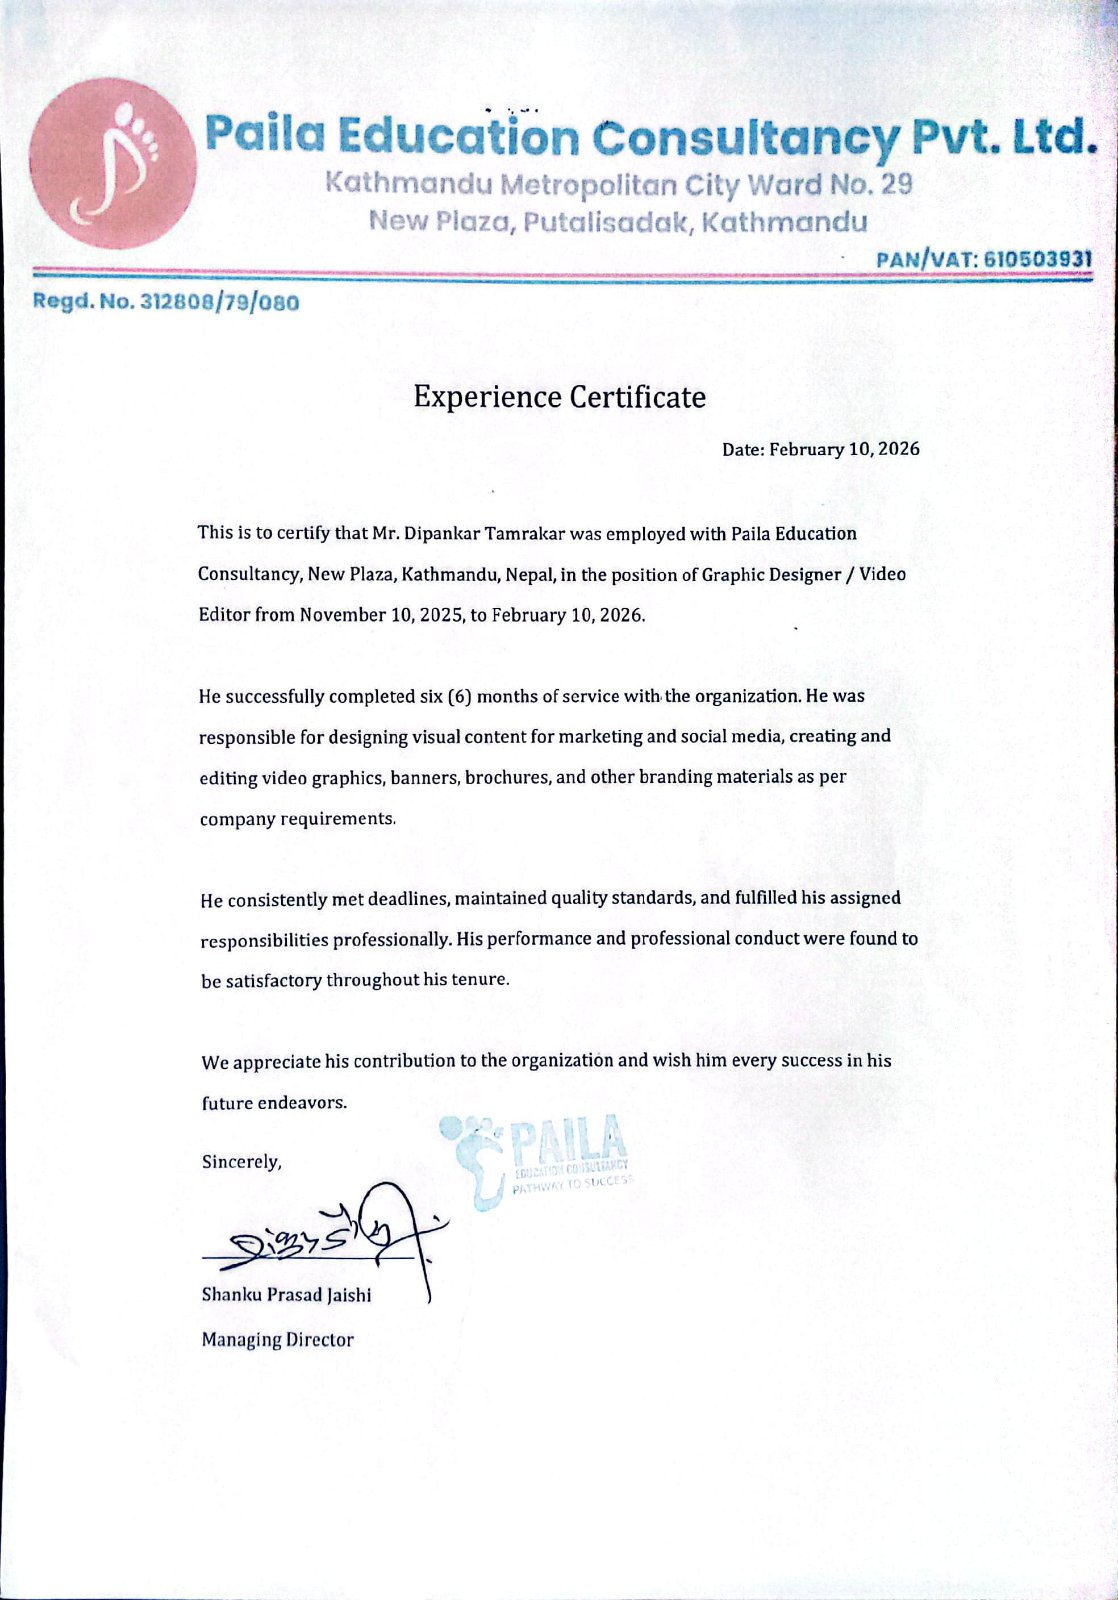
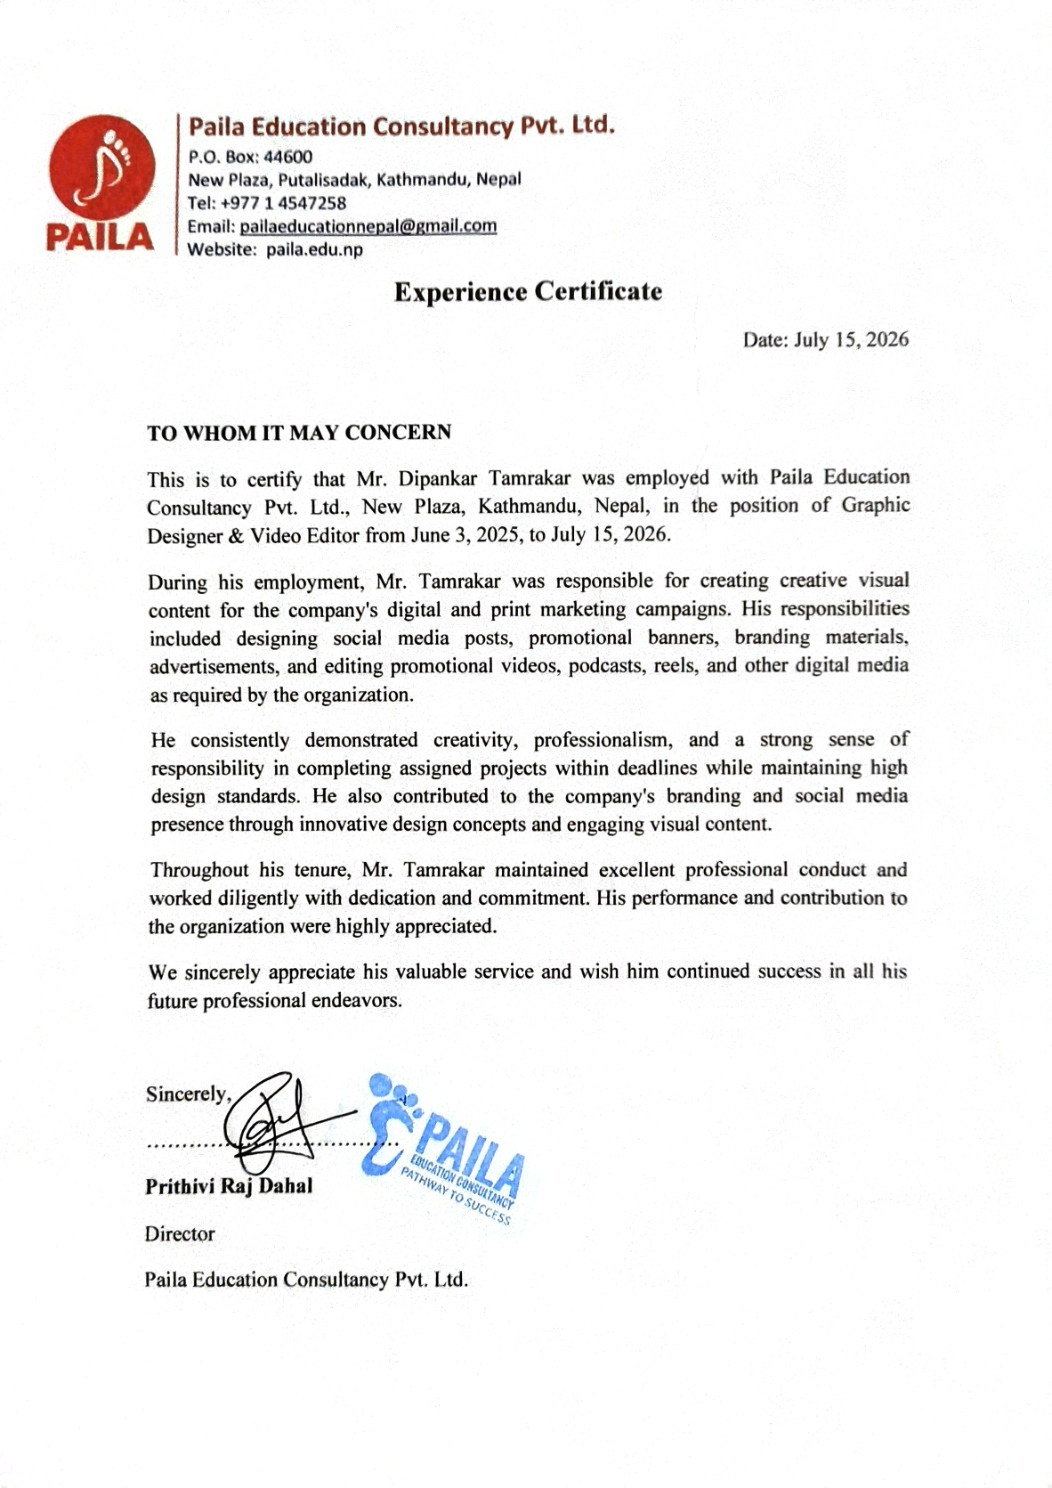
Experience Updated (Paila) + 1 Creative

diff --git a/index.html b/index.html
@@ -116,7 +116,7 @@
                         <div class="timeline-node">
                             <div class="node-meta-row">
                                 <span class="node-status-tag verified">VERIFIED WORK</span>
-                                <span class="node-timeline-date">OCT 2024 - NOV 2025</span>
+                                <span class="node-timeline-date">JUNE 2024 - JULY 2025</span>
                             </div>
                             <h4>Sprachschule Kathmandu</h4>
                             <div class="node-role">Graphic Designer & Video Editor</div>
